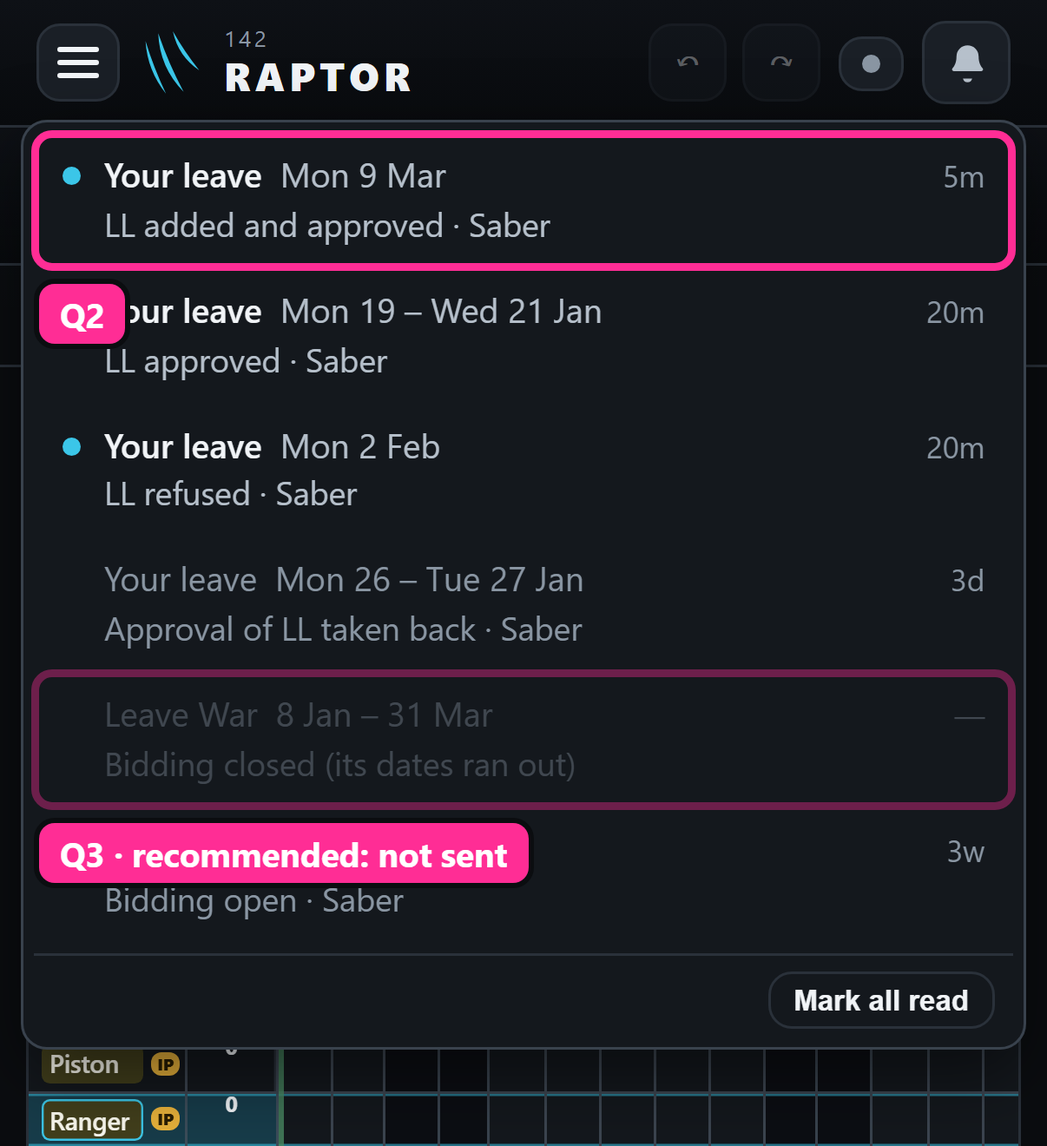
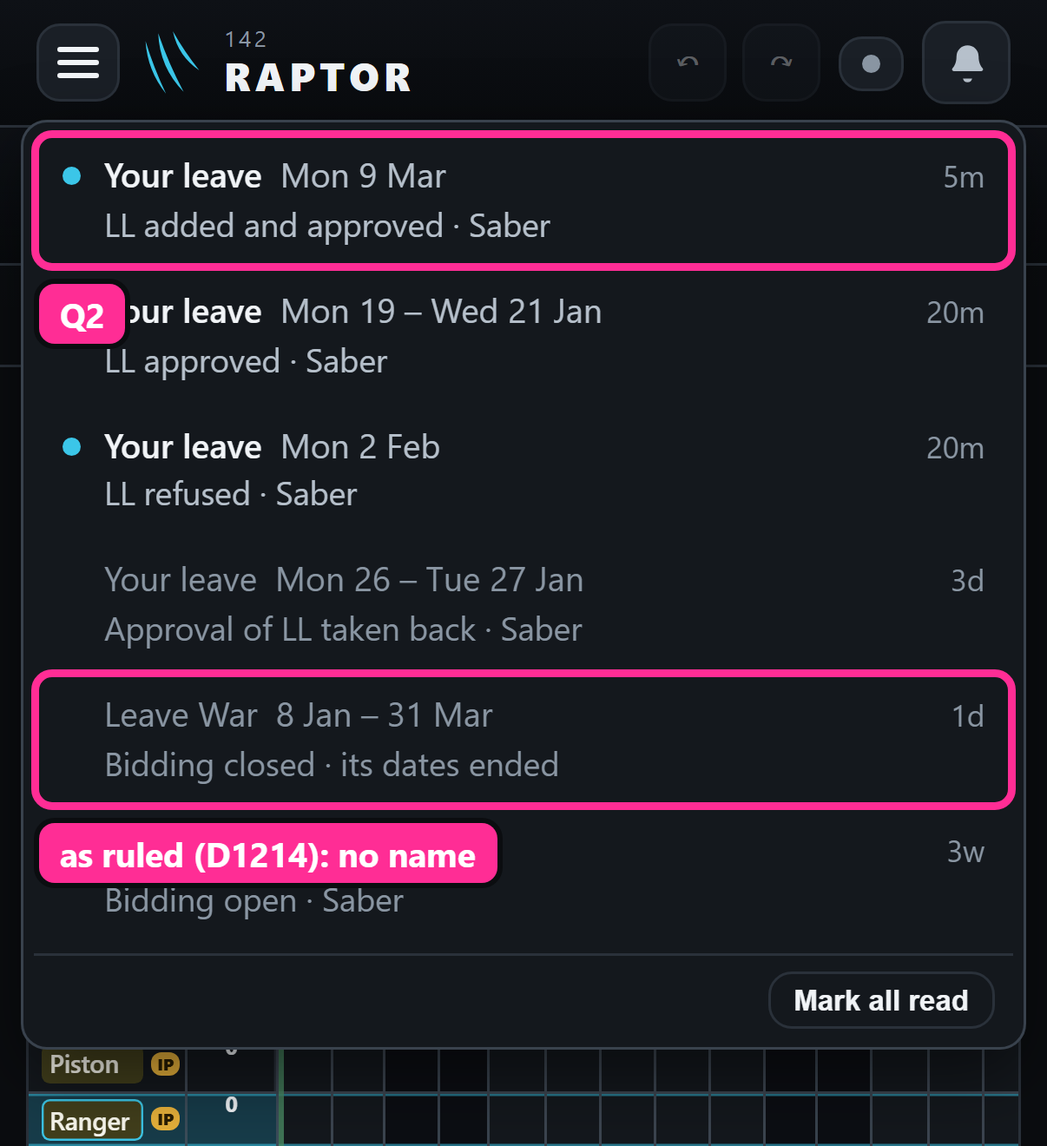
M4's build spec: the fresh read's 15 findings taken (Q3 dropped as already ruled by D1214; the count across periods; a decided line re-keys; Redo after taken back; the off-roster tap; [LW-M1-READ-LEFTOVERS] (1) built in M4); the question page published

Changed region(s): [[0.0307, 0.5591, 0.9818, 0.7765]]

diff --git a/raptor-port/docs/mock/lw-overhaul/m4-questions.html b/raptor-port/docs/mock/lw-overhaul/m4-questions.html
@@ -38,7 +38,7 @@ figcaption{color:var(--mute);font-size:13px}
 <main>
   <header>
     <h1>Leave War M4 — before the build</h1>
-    <p class="lead">M4 is Approvals and the bell's Leave War lines. The plan is written. Four things need your eye first; everything else is already settled by your rulings. Pictures are drawn into the real app; the requests in them are made up (today's demo has none waiting). Tap a picture to zoom.</p>
+    <p class="lead">M4 is Approvals and the bell's Leave War lines. The plan is written. Three things need your eye first; everything else is already settled by your rulings. Pictures are drawn into the real app; the requests in them are made up (today's demo has none waiting). Tap a picture to zoom.</p>
   </header>
 
   <section class="now" aria-labelledby="now-h">
@@ -47,7 +47,6 @@ figcaption{color:var(--mute);font-size:13px}
       <li><a href="#l1">L1</a> Approvals as its own tab page. <span class="rec">Recommended: as drawn.</span></li>
       <li><a href="#q1">Q1</a> A line you just approved or refused stays in place, lit, until you leave the tab. <span class="rec">Recommended: yes.</span></li>
       <li><a href="#q2">Q2</a> Tell a member when you put leave on his row already approved. <span class="rec">Recommended: yes.</span></li>
-      <li><a href="#q3">Q3</a> No bell line when bidding ends only because its last date passed. <span class="rec">Recommended: no line.</span></li>
     </ol>
   </section>
 
@@ -77,21 +76,14 @@ figcaption{color:var(--mute);font-size:13px}
     <p>With "Approve what I enter" on, leave you put on Ranger's row lands approved. Today nothing tells him. Your rulings cover a bid you decide, not leave you place yourself.</p>
     <p class="rec">Recommended: yes — "Your leave · Mon 9 Mar · LL added and approved · Saber", a tap opening the grid there.</p>
     <div class="pics">
-      <figure><button type="button" data-z="r22-7-bell-phone.png"><img src="r22-7-bell-phone.png" alt="The member's bell with the Leave War lines"></button><figcaption>Q2 the new line at the top · Q3 the faded line, recommended not sent</figcaption></figure>
+      <figure><button type="button" data-z="r22-7-bell-phone.png"><img src="r22-7-bell-phone.png" alt="The member's bell with the Leave War lines"></button><figcaption>Q2 the new line at the top. Lower down, bidding that ends on its last date: you already ruled members are told (D1214), so it is built, with no name since nobody closed it.</figcaption></figure>
     </div>
-  </section>
-
-  <section class="q" id="q3">
-    <h2><span class="tag">Q3</span>Bidding that ends because its last date passed</h2>
-    <p>You ruled every member is told when bidding opens or closes (D1214). When an open stretch simply runs out on its last date, nobody closed it.</p>
-    <p class="rec">Recommended: no line — he saw the dates when it opened, and there is no "who" to name. Only your open or close rings.</p>
-    <p class="note">Same picture as Q2: the faded line is the one that would not be sent.</p>
   </section>
 
   <section class="q" id="readings">
     <h2>Built as I read your rulings — strike any</h2>
     <ol class="readings">
-      <li>The tab's count is what is pending in the period on view.</li>
+      <li>The tab's count is every pending request, in every period, since it is your only sign that anything waits; the list shows the year on view, with "+4 pending in JAN – DEC 27 ›" when another year holds some.</li>
       <li>Leave placed over several days is one line; DAYS is what it takes off LVE (a weekend inside it not counted).</li>
       <li>The bidding line goes to everyone on the war except the admin who did it; opening four months by four taps is one line, not four.</li>
       <li>Undo of opening or closing bidding works like Undo of a decision: unread lines go, a read one gets "taken back".</li>
@@ -99,6 +91,10 @@ figcaption{color:var(--mute);font-size:13px}
       <li>A tap on a request's dates opens the grid there with the cell ringed and a slim "Back to Approvals" bar at the foot.</li>
       <li>For "taken back · Saber" to work, your device needs to see whether the member has read the line — a small permission change, checked by a security read.</li>
       <li>Every document on the war opens when tapped, read only (today none does).</li>
+      <li>When you move or delete a member's pending bid, his bell tells him ("LL bid moved to Thu 29 Jan · Saber").</li>
+      <li>A man posted out since he bid: his line says "posted out 14 Oct"; Approve is refused there, Refuse works.</li>
+      <li>Bidding that ends on its last date tells everyone "Bidding closed · its dates ended", as you ruled (D1214).</li>
+      <li>"Approve 13 — tap again" un-arms itself if the list changes before your second tap, so it never approves a number you did not see.</li>
     </ol>
   </section>
 

diff --git a/raptor-port/docs/superpowers/plans/2026-10-27-lw-m4-build-spec.md b/raptor-port/docs/superpowers/plans/2026-10-27-lw-m4-build-spec.md
@@ -49,8 +49,11 @@ verifies each before acting.**
 ## 1. Batch 8 — Approvals
 
 **8.1 The tab (D1254, D1188).** An admin's tab row reads Grid · Approvals N · OIL (Balances joins in M5, between Approvals
-and OIL — never a tab with nothing behind it). N is the count of pending requests in the period on view — the same number
-the list's "All" shows — and it rises as requests come in (D1152); it is the only place new requests show (D1208, D1219). A
+and OIL — never a tab with nothing behind it). N is the count of pending requests in EVERY period — since the count is the
+only sign that anything waits (D1208, D1219), a request in next year's period, bid on while he views this year, must still
+show — and it rises as requests come in (D1152). The list itself covers the period on view (D1184); where other periods
+hold pending requests, a line at its head says so and switches View there: "+4 pending in JAN – DEC 27 ›" (the fresh read,
+finding 5). A
 member has no Approvals tab. The tab's page takes the grid card's place under the top row, as the Balances page will
 (`r14-bal-1-desk`); the top row (the tabs, View, My leave, ⚙) stays. The keyboard: the tab row's own (one tab stop, the
 arrows). Re-measure the phone's tab row at 390, 402 and 431–700 and with an iPhone's wider letters — three tabs and ⚙ now,
@@ -63,19 +66,29 @@ number — so a five-day OL is one line, "Mon 23 – Fri 27 Feb · 5 days". Each
 kind's look-F box drawn pending · the dates (cyan, "›" — 8.5) · DAYS · LVE BAL (the balance the request already counts —
 D1153; an OIL or a CCL… request shows its own kind's balance, labelled; below zero red) · LOWEST AVAIL (his seat's
 Available row's lowest figure over the request's days, then every Manning row the request turns amber or red, each on its
-own line in its colour, flush left; a SANS man's line "SANS · not in Avail") · PLACED (the date and time; "by <name>" when
+own line in its colour, flush left — a row already amber or red that the request lowers further counts, as the bid
+bubble's does (D1345); a SANS man's line "SANS · not in Avail") · PLACED (the date and time; "by <name>" when
 someone else placed it) · the document mark (the Inputs list's paperclip, its number when two or more; a tap opens the
 document viewer for the admin to read before deciding; nothing when none) · Approve · Refuse. Columns line up from line to
 line under headings drawn once; numbers right-aligned. On a wide desktop the list keeps one eye-span (about 1240px) so
 the buttons stand near the figures (the drawing, `r22-1-desk`). On a phone each request is two lines (A11): puck · box ·
 dates · paperclip · Approve · Refuse; then the four figures under headings drawn once (`r22-5-phone`). A posted-out man's
-puck carries his posting tag (B12). The figures are worked out when the tab opens and when the war changes, not on every
+puck carries his posting tag (B12) — "posting out 12 Mar" before it runs (`sync.ts postingPendingTag`); once an archive or
+a transfer has run that tag is gone (it returns nothing), so the line reads "posted out 14 Oct", and his Approve is refused
+on the line ("Posted out — refuse or delete it") while Refuse still works. A line joined from next-door bids placed at
+different times or by different people (D1346, the run rule) shows the EARLIEST placed time and its "by". The figures are worked out when the tab opens and when the war changes, not on every
 grid repaint (the code map's cost note).
 
 **8.3 Deciding a line (D1361, D1330, A4, B8).** Approve and Refuse rest grey, their words green and red. A tap decides that
 one request at once — one command, one Undo — and its button lights ("Approved" solid green, or "Refused" solid red); the
-line STAYS where it is, lit, until he leaves the tab or changes the dates, so a slip is put right by a second tap on the
-lit button (it goes back to pending, as in the bid windows) and nothing moves under his finger. The count on the tab and
+line STAYS where it is, lit, until he leaves Approvals or changes the dates (if he answers Q1 yes), so a slip is put right
+by a second tap on the lit button (it goes back to pending, as in the bid windows) and nothing moves under his finger.
+**A line re-keys after its own decision** (the fresh read, finding 2): approving turns the request into an Input and a
+put-back mints a new request with a new id, so the writer returns the new ids per item and the line follows them —
+otherwise its own second tap reads as stale. Back to pending clears "decided by" (`decideRequest` spreads the record and
+would keep "Refused by Hex" on a pending line). A test: approve, second tap, approve again. **"Leaving Approvals"** means
+choosing another tab, the page, or ✕ on the slim bar and then going elsewhere — a tap on a request's dates with the slim
+bar up is not leaving: the lit lines, the dots, the New set and the dates picked all survive Back. The count on the tab and
 "Approve all N" count only what is still pending. A request the clash rules refuse is not decided: its line says why,
 in red, under its dates, and stays pending. A decision taken from a state since changed — the request deleted, moved or
 already decided by someone else since the list was drawn — is refused, the line saying what happened ("Already refused by
@@ -87,16 +100,20 @@ approval's "who" can also be read off the war-approved Input's `by`.
 **8.4 "New" (D1231's reading; P9).** The list remembers, for each admin, when he last opened the tab. A request placed
 since then wears the cyan dot; the "New N" choice shows only those and, under them, "Also since you last looked · nothing
 to decide": a member's withdrawn pending bid, and leave filed on the Inputs page that landed on the war — each a line with
-its puck, box, dates, what happened and when (`r22-2-desk`). The dots clear when he leaves the tab. The "last opened" moment
-is a stored per-person record (§3). Where the "also" lines come from is the build's to find and say: the change history's
+its puck, box, dates, what happened and when (`r22-2-desk`). The dots clear when he leaves Approvals (8.3's meaning). The
+moment stored is when he OPENED the tab, written then (a reload or an iPhone dropping the page while he is on it must not
+lose it); "new" is anything placed after the previous stored moment — a per-person record (§3). The "also" lines' dates are
+links too, as the requests' are (D1231's reading): a withdrawn bid's dates open the grid there, the day ringed, nothing
+in it. Where the "also" lines come from is the build's to find and say: the change history's
 Leave War lines (`state/changelines.ts`) if they hold a member's delete of his own pending bid and an Inputs-page leave
 landing on the war, by who and when; a deleted request otherwise leaves no trace to list.
 
 **8.5 The dates (D1184, D1197, D1231 as D1254 narrows it).** The filter row: New N · DATES · All · the period's months as
 the "Open for bidding" window has them (two rows of six on a phone, with New and All leading), a month with nothing pending
-dimmed · Pick dates… (the app's one calendar) · Approve all N at the right. "Approve all" approves exactly what the list
-shows: one press arms it ("Approve 13 — tap again", A4), a second approves every pending line shown as ONE command and one
-Undo; a line the clash rules refuse is reported on its line and the rest go through (`r22-3-desk`). A tap on a request's
+dimmed · Pick dates… (the app's one calendar) · Approve all N at the right. "Approve all" — the main-button look (A4) — approves exactly
+what the list shows: one press arms it ("Approve 13 — tap again", A4), a second approves every pending line shown as ONE
+command and one Undo; anything that changes what the list shows while it is armed (a filter, one line decided, an Undo, a
+request coming or going) disarms it, so the second tap never approves a number he did not read; a line the clash rules refuse is reported on its line and the rest go through (`r22-3-desk`). A tap on a request's
 dates opens the Grid tab, scrolled so the cell stands clear of the frozen columns and the slim bar, the cell wearing the
 just-added ring for about six seconds (D860), and a slim bar at the foot — "● Approvals · 15 pending · 3 new · Back ▴ · ✕" —
 on a desktop as on a phone (`r22-4-desk`, `r22-6-phone`). Back opens the tab again where it was (the dates picked, the
@@ -127,8 +144,11 @@ a change made on the Inputs page keeps telling him through the Inputs door as to
 cases, including a put-back that rings one line.
 
 **9.3 Undo (D1216, D148).** The admin's Undo of a decision takes its line back if the member has not read it; if he has, a
-new line says "Approval of LL taken back · Saber" (or "Refusal of…", "Move of…", "Deletion of…"). Redo writes the decision's
-line again and leaves the "taken back" line where it is (it happened). **How (the agent's call, from the survey §7):** an
+new line says "Approval of LL taken back · Saber" (or "Refusal of…", "Move of…", "Deletion of…"). Redo leaves the "taken back"
+line where it is (it happened); where one stands for that decision, Redo's follow-up writes a FRESH line, new id and the
+time now — "LL approved again · Saber" — because the old line, put back with its old id, is still in his read marks and
+would come back already read under an unread "taken back" (the fresh read, finding 3); where none stands, Redo simply puts
+the old line back. **How (the agent's call, from the survey §7):** an
 Undo restores an exact image, so it cannot itself leave or write a line. The decision's line goes with the Undo as today;
 then, once the Undo has landed, a follow-up notice command — never an Undo step (`undo/timeline.ts NOT_STEPS`) — writes the
 "taken back" line for each member whose read mark covered the line that went. For the admin's device to see a member's
@@ -149,8 +169,11 @@ bidding closed · Saber"; widening or shortening a stretch is one line with its 
 that stretch in view (the grid at its first open day). Undo follows 9.3. **Not a line a month:** each month tapped in the
 window is its own command, so an admin opening four months would ring every member four times — one live line per member
 per stretch, the newest replacing the older (as the holiday's lines do, `noticeLive`). Who gets it: every account tied to a
-person on the war, the archived, deleted and special left out, the admin who did it left out. A stretch that ends because
-its last date passes tells nobody unless he answers Q3 otherwise (§5).
+person on the war, the archived, deleted and special left out, the admin who did it left out. **A stretch that ends because its last date passes rings too** — D1214
+ruled the register's P7 in as written, and P7's "when" includes "its last day passes" (the fresh read, finding 4): "Leave
+War · 1 Apr – 30 Jun · bidding closed · its dates ended", no name. No command runs on that date, so the line is not a
+stored notice: each person's bell derives it from the period's stored stretches once the date has passed (its own steady
+id, read like any other line); at the database step a scheduled flow may write it instead (noted for the IT side).
 
 **9.4a An admin's leave placed approved on a member's row (the register's P2 — asked, Q2).** "Approve what I enter" makes a
 new war-approved Input, which today tells nobody. If he answers yes: "Your leave · Mon 9 Mar · LL added and approved · Saber",
@@ -158,7 +181,18 @@ a tap opening the grid there; written by `placeApproved` (`lw.placeApproved`) as
 
 **9.6 The tap (the survey §7, §10).** No route opens the Leave War at a date today: `sync.ts openWarAt(iso, personId?)`,
 from the bell (`ui/topbits.tsx openNotice`), opens the page, the war holding the date, the grid at that day and the
-person's cell ringed. The page's first-visit landing (`LeaveWarPage.tsx`, its landed flag) must not override it.
+person's cell ringed. The page's first-visit landing (`LeaveWarPage.tsx`, its landed flag) must not override it. **A line for a man
+with no row on the grid** (a SANS man while SANS is off the war — B12, the build plan's batch 9) opens his person window
+instead, as Approvals' dates do (8.5).
+
+**9.7 An admin moving or deleting a member's pending bid** (not in D1142's list, which names a decided bid and an approved
+leave — the fresh read, finding 11): one line, "Your leave · Tue 27 Jan · LL bid moved to Thu 29 Jan · Saber" / "… LL bid
+deleted · Saber" — a reading named at his look, his to strike.
+
+**9.8 A member's shared filing over another man's pending bid** (`[LW-M1-READ-LEFTOVERS]` (1), placed "with the Leave War's
+next batch"): today it writes a war notice on that man's row and the commit refuses the whole filing. 9.3a's one line rests
+on that filing landing, so it is built here: the war's notice rides the filing's own input id (the permission check's
+`rides`), and the case is walked. `[LW-CLASH-ROWLESS-TAP]` closes with the off-roster person window (8.5).
 
 **9.5 Nothing to the admin (D1208, D1219).** No bell line tells an admin that a request waits; the tab's count is the only
 sign. A member's withdrawn bid and an Inputs-page leave reach him only in "Also since you last looked" (8.4).
@@ -180,6 +214,8 @@ sign. A member's withdrawn bid and an Inputs-page leave reach him only in "Also 
   step (`NOT_STEPS`); its prefix joins `state/people-settings-commit.ts SETTINGS_ROW_PREFIXES`; PERMS a type of its own
   (each person his own row); `docs/data-schema.md`, `docs/data-model.md` and §11.
 - **The read-mark record gains an admin's read** (9.3) — `NoticeSeen`, PERMS `[T.noticeseen]` and §11 together.
+- **The follow-up notice command of 9.3** (after an Undo or a Redo) is a notice writer of its own type — named in
+  `state/perms.ts`, §11's Notice row and `undo/timeline.ts NOT_STEPS` together.
 - **The security read (D1411):** this widens who may write a notice — one extra fresh reader looks only for holes (a member
   writing a notice to another, a member reaching Approvals' commands, a forged "placed by").
 
@@ -242,7 +278,7 @@ NoticeSeen's admin read. `leavewar/permsparity.test.ts` gains Approve all and th
 
 **No other branch touches these files** (27 Oct 26: the one active branch, the handoff review, changes notes only).
 
-## 5. Put to him before the build — one look and three questions (D853, D1222; the page names each picture)
+## 5. Put to him before the build — one look and two questions (D853, D1222; the page names each picture)
 
 **L1 — Approvals as a tab's page** (`full/r22-1-desk`, `r22-2-desk`, `r22-5-phone`; the tab row's own place on the phone
 re-measured in the build). Recommended: as drawn — the page takes the grid card's place, the list held to one eye-span on a
@@ -252,11 +288,12 @@ right with a second tap and nothing moves under his finger; the count and "Appro
 The other way: the line leaves the list at once (an Undo brings it back).
 **Q2 — a member told when an admin places leave on his row already approved** (`r22-7-bell-phone`; the register's P2).
 Recommended yes: "Your leave · Mon 9 Mar · LL added and approved · Saber". Today he is told nothing.
-**Q3 — bidding that ends because its last date passes** (`r22-7-bell-phone`, the faded line). Recommended: no line — he saw
-the dates when it opened, and nobody closed it, so there is no "who"; only an admin's open or close rings (D1214).
+*(A third question, whether bidding that ends by its last date alone rings, was dropped after the fresh read: D1214 ruled
+the register's P7 in as written, and P7 counts "its last day passes" as closing — it is built, 9.4.)*
 
 **Readings built as recommended and named at his look, his to strike — none blocks the build:**
-1. The tab's count is what is pending in the period on view (the list's "All").
+1. The tab's count is every pending request, in every period; the list shows the period on view, with "+N pending in
+   JAN – DEC 27 ›" where another period holds some.
 2. A request placed over several days is one line; DAYS is what it takes off LVE (a weekend inside it not counted).
 3. Bidding lines go to everyone on the war but the admin who did it; a run of month taps is one line per stretch.
 4. Undo of an open or a close follows D1216, as a decision's does.
@@ -264,9 +301,12 @@ the dates when it opened, and nobody closed it, so there is no "who"; only an ad
 6. A request saved before M4 shows a dash for "placed" and sorts first.
 7. The bell's "taken back" needs an admin's device to read whether the member read the line — a permission widened.
 8. Every document chip on the war opens the document, read only.
+9. An admin moving or deleting a member's pending bid tells him (9.7).
+10. A posted-out man's pending request: tagged "posted out 14 Oct"; Approve refused on the line, Refuse works.
+11. Bidding that ends by its last date tells everyone "bidding closed · its dates ended", with no name (D1214, P7).
 
-**Records of each answer:** a ruling row in `leave-war.md` the moment he answers; Q2 and Q3 also in
-`docs/notifications-register.md` (P2 ruled or struck; P7's "its last day passes" struck or kept).
+**Records of each answer:** a ruling row in `leave-war.md` the moment he answers; Q2 also in
+`docs/notifications-register.md` (P2 ruled or struck); reading 9 a new register line (proposed, his to strike).
 
 ## 6. The roll-call seed (bug-check order §6) — the builder fills every cell: has it / must not, because… / MISSING
 
@@ -298,7 +338,9 @@ up, press the grid; 5 (brought into sight) — the ringed cell against the froze
 **A line's states × what it shows** (lesson 1): pending · approved here (lit) · refused here (lit) · back to pending (second
 tap) · refused by the clash rules · decided elsewhere since (stale) · deleted since · a SANS man · a posted-out man · with
 documents (0, 1, 2+) · a half day · a run over a weekend · an OIL and a CCL request · placed by someone else ("by …") · saved
-before M4 (dash). Each cell a scenario or a named test.
+before M4 (dash) · a man archived or transferred since he bid · on a locked, published week (the door's "locked week"
+refusal, not a clash) · a leave across the period boundary (two lines, one in each period — B3) · joined from bids placed at
+two times (the earliest shown). Each cell a scenario or a named test.
 
 1. Admin, desktop: the tab, its count; the list oldest first; every column against the request's own figures on the grid
    and in the bid window's day line.
@@ -307,15 +349,19 @@ before M4 (dash). Each cell a scenario or a named test.
 4. Approve all across Jan with one line the clash rules refuse → the rest approved, the refused line says why; ONE Undo
    brings every line back; the members' bells: one line each, none twice.
 5. Pick dates…, a month, New: "Approve all" approves exactly what shows — a pending request outside the filter untouched.
-6. Stale: two admins (two browser contexts, one store) — one refuses, the other's Approve on the same line says "Already
-   refused by …" and changes nothing.
+6. Stale (B8): the war carries no change across browser tabs today (`[LW-NIGHT1025-OLDER]` (b)), so two contexts cannot
+   prove it — a unit test feeds the writer a line drawn from an older state; and in one browser: arm Approve all, tap a
+   listed request's dates, delete that bid on the grid, Back — "Approve all" is disarmed and recounted, the deleted line
+   says "No longer there".
 7. A date tap: the Grid tab, the grid there, the cell ringed about six seconds, the slim bar; Back → the list where it was;
    ✕; a SANS man with SANS off → his person window; a request in another period.
 8. The paperclip → the document, read only; its count with two.
-9. The member's bell, for each case of 9.1 (approved, refused, put back, moved, deleted, replaced) — one line, the words,
-   the tap → the grid at that day ringed; no Inputs-door line beside it (B1); an Inputs-page change to the same leave still
-   tells him once.
-10. Undo of a decision he has not read → its line gone; one he has read → the line stays and "… taken back · Saber" comes.
+9. The member's bell, for each case of 9.1 (approved, refused, put back, moved, deleted, replaced) and 9.7 — one line, the
+   words, the tap → the grid at that day ringed; a SANS man with SANS off → his person window; no Inputs-door line beside
+   it (B1); an Inputs-page change to the same leave still tells him once; a member's shared filing over another man's
+   pending bid lands (9.8).
+10. Undo of a decision he has not read → its line gone; one he has read → "… taken back · Saber" comes; then Redo → "LL
+    approved again · Saber", unread, on top.
 11. Bidding: open four months by four taps → one line per member; close → one line; the admin himself none; a tap → the war
     with that stretch in view; Undo.
 12. A member's own move and delete of his pending bid → no line for him; the admin's "Also since you last looked" lists the
@@ -324,7 +370,12 @@ before M4 (dash). Each cell a scenario or a named test.
     picture after each tap.
 14. Reload after 2, 4, 10, 11 — the stamps, the decisions, the lines, the read marks and "last opened" all kept (the built
     bundle, browser storage).
-15. A member: no Approvals tab; nothing of Approvals reachable by the keyboard or a typed address.
+15. A member: no Approvals tab; nothing of Approvals reachable by the keyboard or a typed address; an admin who switches to
+    member view while on the tab is taken off it (D292).
+15a. The keyboard and a screen reader: the tab order through fifty lines, the lit button read as pressed, the armed and the
+    refused words announced.
+15b. Reload, or the page dropped, while on the tab → the "last opened" moment kept; the next visit's New counts from it.
+15c. The count with a pending request in next year's period while this year is on view; "+N pending in … ›".
 16. Speed (§E, the built bundle, before and after): the grid's node count with the tab used and left; the tab opening with
     fifty pending requests; a decision → the grid's repaint counted (`PersonMonth` draws).
 
@@ -341,9 +392,13 @@ reads FULL wants and the other provider's scenario design.
 
 ## 9. Open points and records
 
-**Left to the build — technical (the builder decides and says what he did):** the writer's exact shape and its per-item
-reasons; where "also since" reads from (8.4); the focus ask that rings without opening; the request form of the viewer;
+**Left to the build — technical (the builder decides and says what he did):** the writer's exact shape, its per-item
+reasons and the new ids it returns; where "also since" reads from (8.4); the focus ask that rings without opening; the request form of the viewer;
 the off-roster person window; merging the bidding lines.
+
+**The fresh read of this spec** (27 Oct 26, one blind Opus reader): 15 findings, all taken — 8.1's count, 8.2's
+posted-out and joined lines, 8.3's re-keying and "leaving", 8.4's moment stored, 8.5's disarm, 9.3's Redo, 9.4's ending
+date (Q3 dropped), 9.6's off-roster tap, 9.7, 9.8, §3's follow-up writer, and the walk's states and steps.
 
 **Not in M4:** the member's side of "since your last visit" and the person window (M5, A1); the Balances tab (M5); the
 document reminder the day before a leave (the register's P1 — later, D1150); M3's leftover (8), the silent 20-document cap,

diff --git a/HANDOFF.md b/HANDOFF.md
@@ -21,12 +21,12 @@ the later merge keeps both (D78).
 
 ## Now
 <!-- now:claude/leave-war-m4-planning-d18224 -->
-### `claude/leave-war-m4-planning-d18224` — the Leave War overhaul's M4 (deciding), PLANNED; waiting on his look and three answers — written 27 Oct 26, verify before use
+### `claude/leave-war-m4-planning-d18224` — the Leave War overhaul's M4 (deciding), PLANNED; waiting on his look and two answers — written 27 Oct 26, verify before use
 - **After a compaction:** re-read this block and the M4 build spec before the next change; note the compaction here with its time.
 - **Where it started:** his opening line, 27 Oct 26: plan M4 (D1404) from `main` at 36b7beaa9. Remote Control was already on.
-- **Done:** the build spec `raptor-port/docs/superpowers/plans/2026-10-27-lw-m4-build-spec.md` — every ruling M4 carries (Q8 and Q11 of the build plan already answered: D1214, D1216), the code read again on `main` by a helper (the 22 Oct code map is stale on Approvals being a tab, the puck, deciding by war; the risks: no writer takes a mixed list, one inner refusal sinks Approve all, a request stores no "placed" or "decided", nothing on the war opens a document, "taken back" needs an admin's read of the read marks, B1 skips by command type), the roll-call seed, the walk with §7.11's lessons, the checks (FULL + the security read, D1411). The Approvals tab drawn on the real app: `raptor-port/docs/mock/lw-overhaul/full-r22-*` (script `full-r22-approvals-tab.mjs`); the questions page `raptor-port/docs/mock/lw-overhaul/m4-questions.html`. The build plan's §2 table and M4 row corrected (D201). One fresh, blind Opus reader of the spec.
-- **Questions waiting for him (the page):** L1 Approvals as a tab page, as drawn; Q1 a decided line stays lit in place until he leaves the tab; Q2 a member told when an admin places approved leave on his row (the register's P2); Q3 no line when bidding ends by its date alone. Each recommended; eight readings named for him to strike.
-- **Next:** record his answers (leave-war.md; Q2 and Q3 in the notifications register too), fold them into the spec, then build M4 on a branch of its own cut from `main` (the build plan: one merge, FULL check) — a fresh chat if this one is past about 60%.
+- **Done:** the build spec `raptor-port/docs/superpowers/plans/2026-10-27-lw-m4-build-spec.md` — every ruling M4 carries (Q8 and Q11 of the build plan already answered: D1214, D1216), the code read again on `main` by a helper (the 22 Oct code map is stale on Approvals being a tab, the puck, deciding by war; the risks: no writer takes a mixed list, one inner refusal sinks Approve all, a request stores no "placed" or "decided", nothing on the war opens a document, "taken back" needs an admin's read of the read marks, B1 skips by command type), the roll-call seed, the walk with §7.11's lessons, the checks (FULL + the security read, D1411). The Approvals tab drawn on the real app: `raptor-port/docs/mock/lw-overhaul/full-r22-*` (script `full-r22-approvals-tab.mjs`); the questions page `raptor-port/docs/mock/lw-overhaul/m4-questions.html`. The build plan's §2 table and M4 row corrected (D201). One fresh, blind Opus reader of the spec: 15 findings, all taken (among them: Q3 dropped — D1214 already rules that bidding ending on its last date rings; the count covers every period; a decided line re-keys; Redo after "taken back" writes a fresh line; the off-roster bell tap; [LW-M1-READ-LEFTOVERS] (1) built in M4).
+- **Questions waiting for him (the page, https://claude.ai/artifact/Ubso4EU7QfLLncH3jXuqiP):** L1 Approvals as a tab page, as drawn; Q1 a decided line stays lit in place until he leaves Approvals; Q2 a member told when an admin places approved leave on his row (the register's P2). Each recommended; twelve readings named for him to strike.
+- **Next:** record his answers (leave-war.md; Q2 in the notifications register too), fold them into the spec, then build M4 on THIS branch (its spec is here; one merge, FULL check — the build plan) — a fresh chat if this one is past about 60%: switch to `claude/leave-war-m4-planning-d18224` and read this block.
 - **Notes:** ruling numbers to D1419 (none new here); observations to 724.
 <!-- /now -->
 <!-- now:claude/observation-log-review-triage-7f6090 -->

diff --git a/OUTSTANDING.md b/OUTSTANDING.md
@@ -106,7 +106,7 @@ Every item was checked against git and the code on 18 Oct 26. **Re-order this li
 - [INP-ADD-RIGHT] — the Inputs list's "+ Input" on a desktop at the right where its window opens, as "+ Medical" now is (D1300's reading, lesson 47) — his choice, with a picture.
 - [LW-OPENDATES-X-SIZE] — on a phone the "Open for bidding" page's ✕ is 18 × 17, under a finger's size — seen by M3's follow-up walk.
 - [LW-MORE-BELOW-CUE] — the day panel says how many more are below its foot ("↓ 10 more") when its list runs past it (his D1295); its look drawn first.
-- [LW-OVERHAUL] — the Leave War's overhaul (D1140): M1, M2 and M3 live (pull requests 566, 567, 569, follow-ups 571–573); M4 (deciding — Approvals, the bell) planned 27 Oct 26 (`raptor-port/docs/superpowers/plans/2026-10-27-lw-m4-build-spec.md`), waiting on his look and three answers, then built (D1404); then M5.
+- [LW-OVERHAUL] — the Leave War's overhaul (D1140): M1, M2 and M3 live (pull requests 566, 567, 569, follow-ups 571–573); M4 (deciding — Approvals, the bell) planned 27 Oct 26 (`raptor-port/docs/superpowers/plans/2026-10-27-lw-m4-build-spec.md`), waiting on his look and two answers, then built on the same branch (D1404); then M5.
 - [LW-EVENTS-LANE] — parked: a better way to show the Leave War's events (round 21's study, B an events lane recommended) — not put to him until he raises it (D1259).
 - [NOTIFY-REGISTER] — the register of notifications (D1151) is written; its six proposed lines (P1–P6) wait for him to keep or strike.
 - [HUMAN-RETEST] — the last re-test left: the Leave War links, with the 7 Sep phone check.
@@ -305,7 +305,7 @@ Found by the walkers of `raptor-port/docs/handpass/2026-10-25-lw-night.md` (repo
 
 ### [LW-OVERHAUL] The Leave War's major overhaul, taking the good things from a colleague's app (his word, 21 Oct 26 — D1140)
 **M3's leftovers, from its fresh Opus read (24 Oct 26 — `raptor-port/docs/handpass/parts/lw-m3/read-opus.md`, findings 7 and 8; not built in M3):** (7) a bid replaced by a clashing Inputs-page leave or medical drops its documents and remarks from every record (`leavewar/inputgate.ts replaceClashingBids` writes a notice carrying neither) — carry them onto the same man's replacing leave, or keep them on the notice; (8) the 20-document cap on a request is silent (a 21st file picked disappears) and the Inputs page has none — one cap for both, said on screen. And from the walk, older and met in passing: an approved leave's one-record window has no "Back to bid" (the day's list has it); a drag made while a drag-selection window stays open does not replace its selection.
-**M4's build spec (27 Oct 26):** `raptor-port/docs/superpowers/plans/2026-10-27-lw-m4-build-spec.md` — batches 8 and 9, the code read again on main, one look and three questions for him (`raptor-port/docs/mock/lw-overhaul/m4-questions.html`, pictures `full/r22-*`).
+**M4's build spec (27 Oct 26):** `raptor-port/docs/superpowers/plans/2026-10-27-lw-m4-build-spec.md` — batches 8 and 9, the code read again on main, one look and two questions for him (`raptor-port/docs/mock/lw-overhaul/m4-questions.html`, pictures `full/r22-*`).
 **M3's build list (23 Oct 26, the night's):** `raptor-port/docs/superpowers/plans/2026-10-24-lw-m3-build-spec.md` — batches 5–7 and the folded items, step by step, with the roll-call seed and the walk's scenarios; built on `claude/lw-m3-placing-leave`.
 **His words:** *"Should we create another worktree chat for a major overhaul planning of the leave war? … I saw this app
 created by my colleague and would like to take the good things from it"*. **What:** compare the colleague's leave app

diff --git a/raptor-port/docs/superpowers/plans/2026-10-22-leave-war-overhaul-build-plan.md b/raptor-port/docs/superpowers/plans/2026-10-22-leave-war-overhaul-build-plan.md
@@ -158,4 +158,4 @@ final set, §10.4 of the design note, is drawn tonight for that look). The two f
 were weighed: the year-end bid (B3) is latent (the range picker stops at the period's end) and halves-only on a balance
 (B6) needs a refusal on screen he has not seen — both go with their merges. Tonight builds nothing in the app.
 
-**Where it stands (27 Oct 26 — D1404):** M1, M2 and M3 are live; M4 is next, in a fresh chat of its own, then M5. **M4 planned (27 Oct 26):** `2026-10-27-lw-m4-build-spec.md` — the code read again on main, the Approvals tab drawn (`full/r22-*`), one look and three questions put to him before the build.
+**Where it stands (27 Oct 26 — D1404):** M1, M2 and M3 are live; M4 is next, in a fresh chat of its own, then M5. **M4 planned (27 Oct 26):** `2026-10-27-lw-m4-build-spec.md` — the code read again on main, the Approvals tab drawn (`full/r22-*`), one look and two questions put to him before the build.
